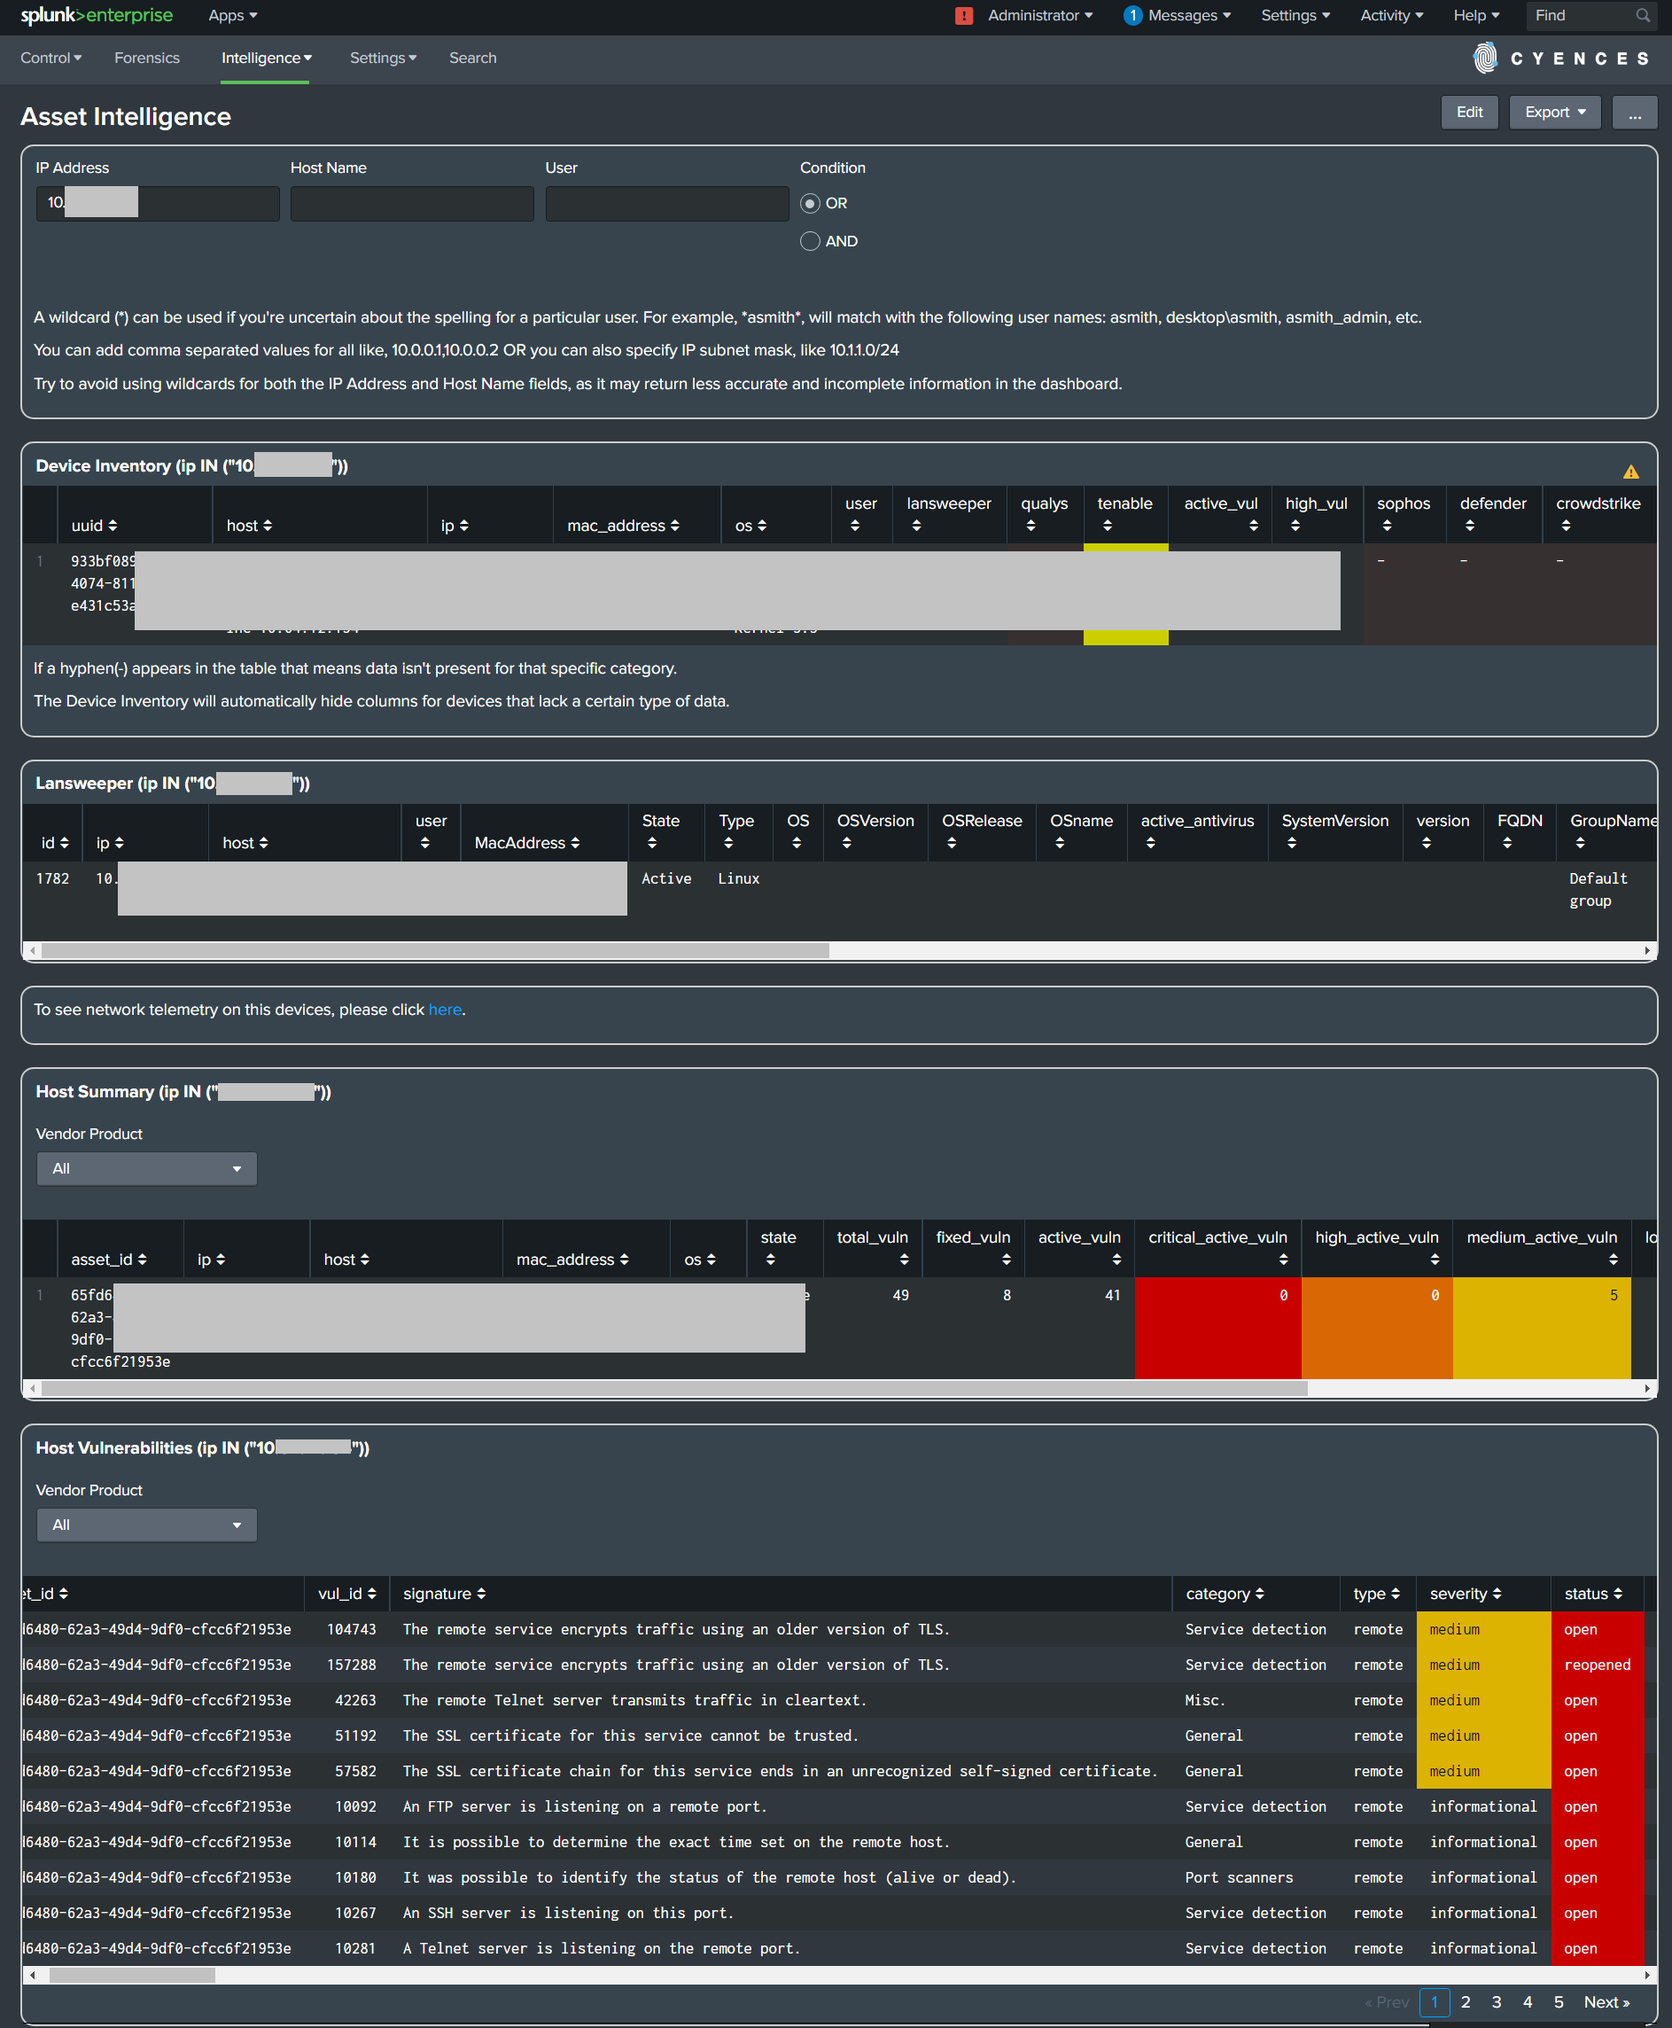
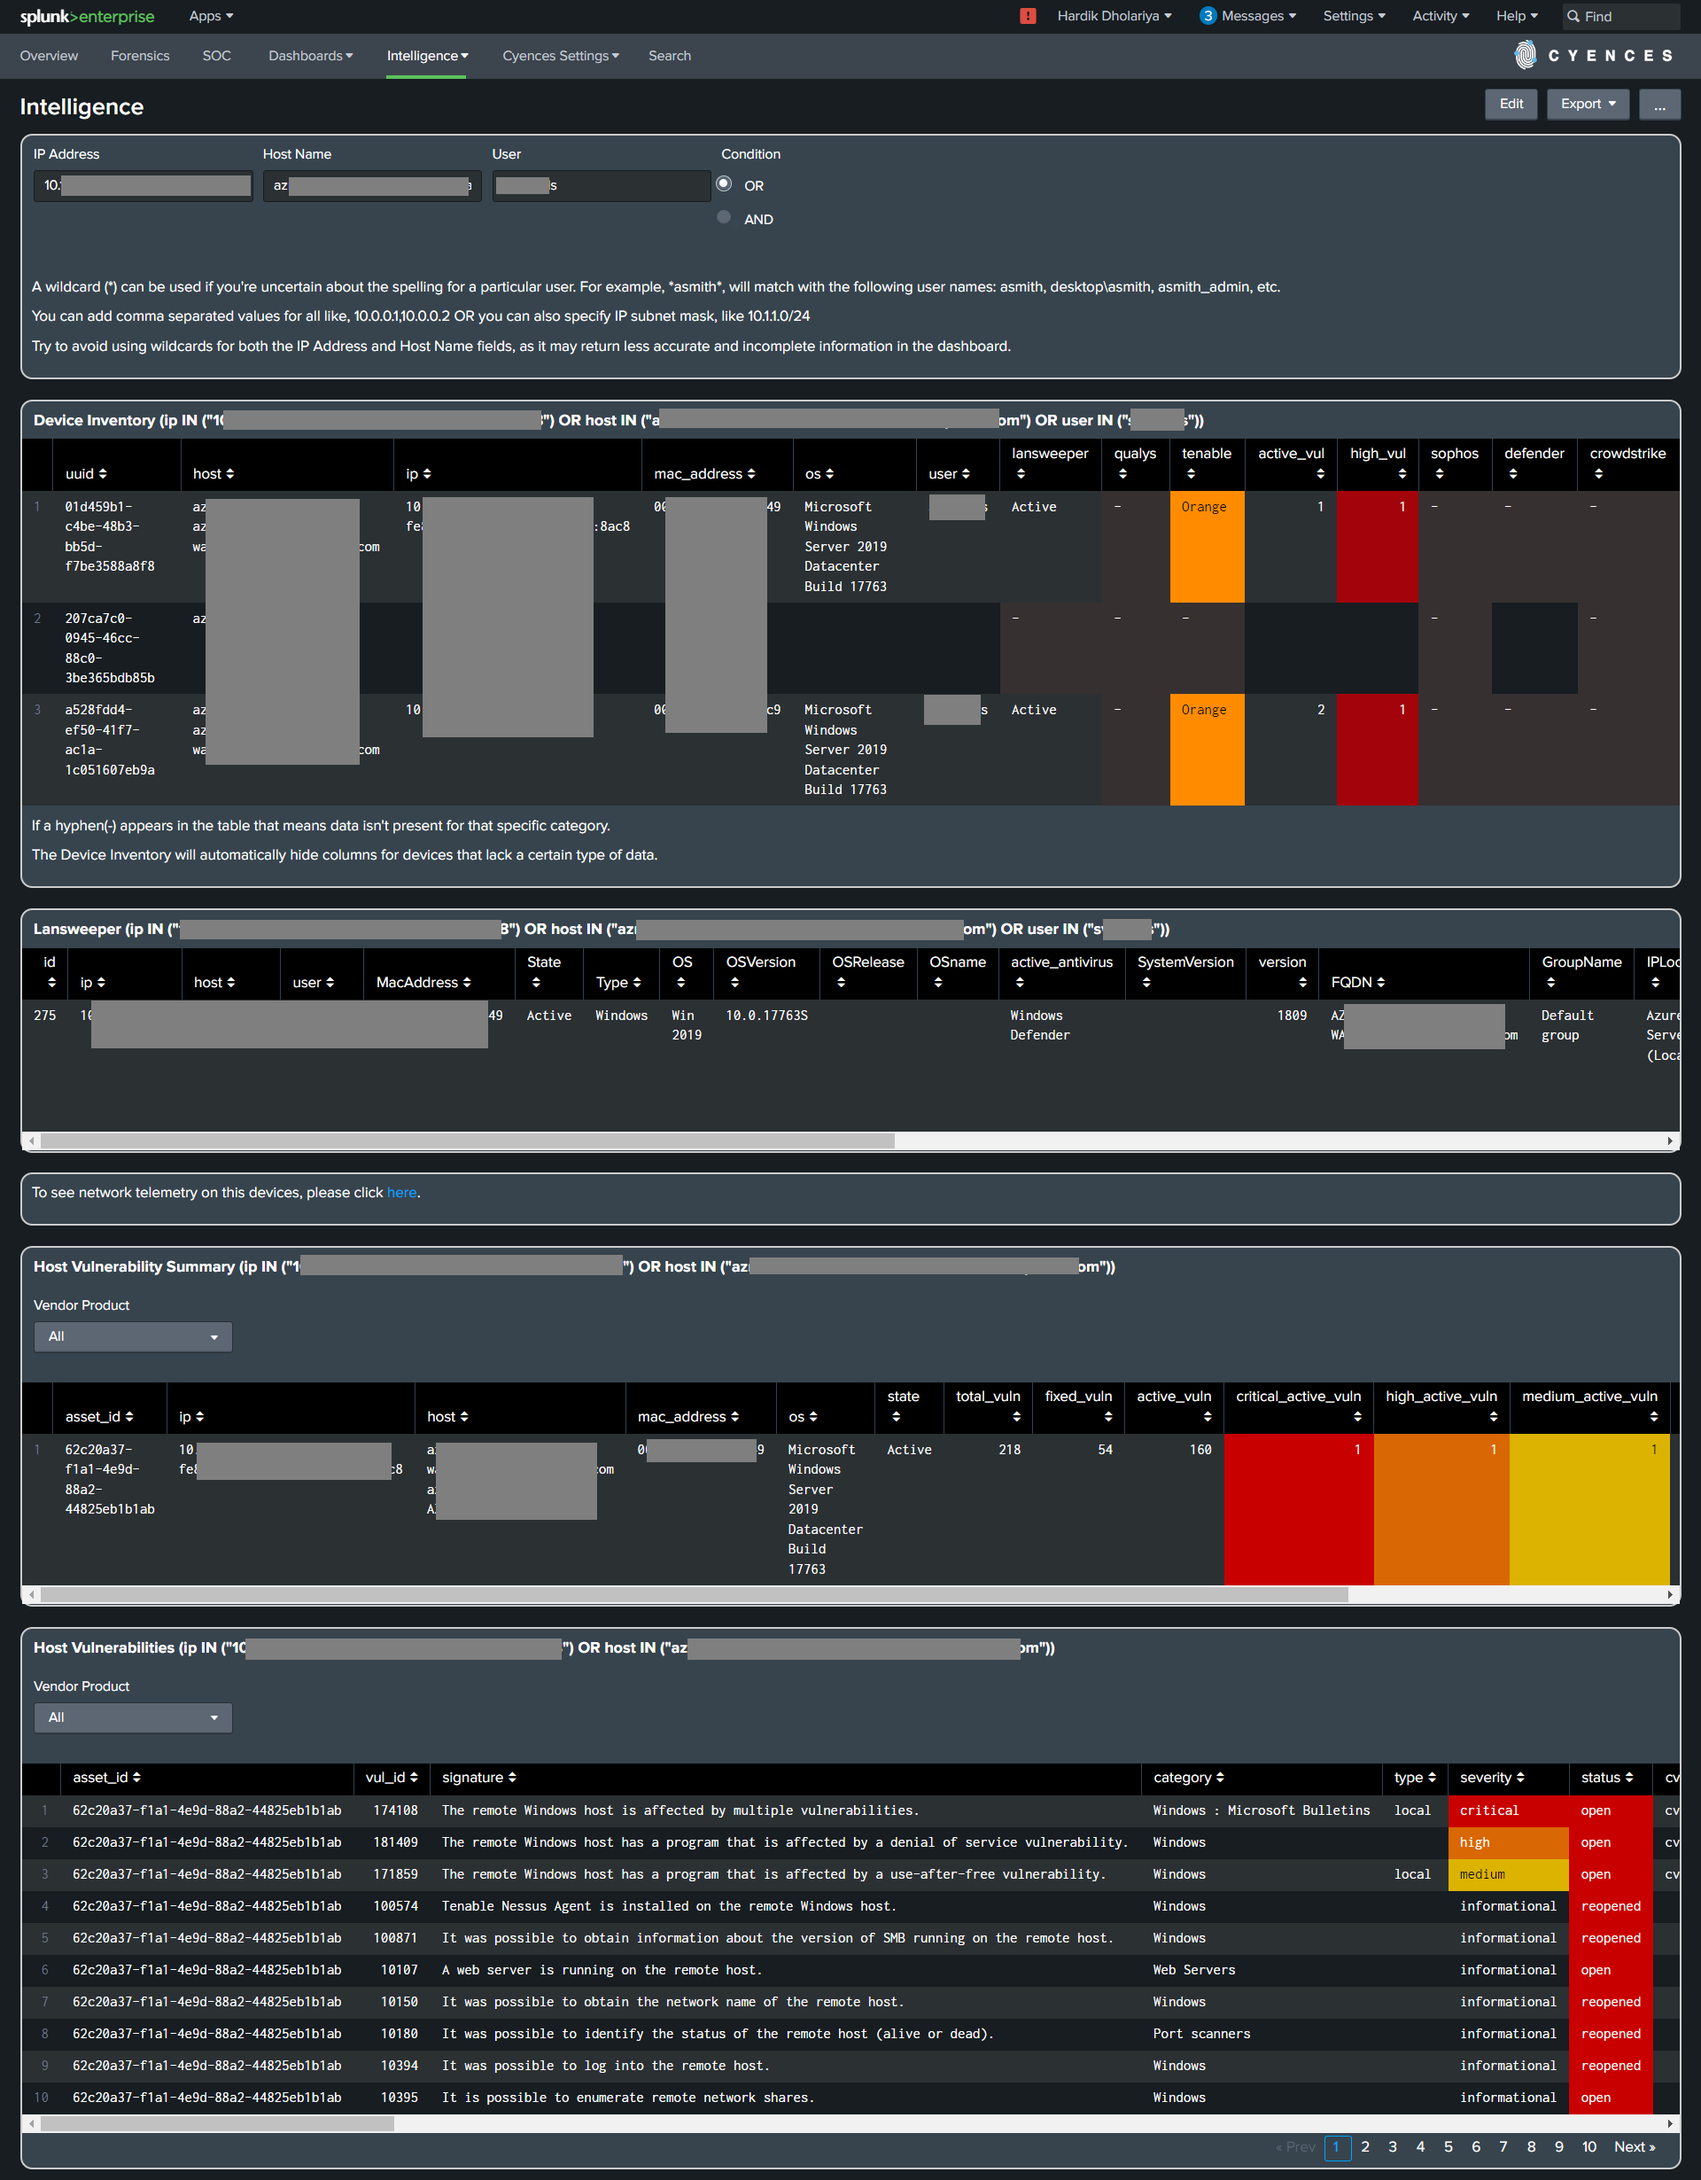
Updated release notes and SS

diff --git a/docs/release_notes/release_notes.md b/docs/release_notes/release_notes.md
@@ -30,17 +30,6 @@ has_children: true
             * Adding the functionality to auto merge devices.
             * Updating the functionality to manual merge devices.
         * The "Asset Intelligence" dashboard has been renamed to "Intelligence".
-        * Improved the searches for the following saved searches:
-            * Device Inventory - Lansweeper
-            * Device Inventory - Tenable
-            * Device Inventory - Tenable Vuln
-            * Device Inventory - Qualys
-            * Device Inventory - Sophos
-            * Device Inventory - Windows Defender
-            * Device Inventory - CrowdStrike
-            * Device Inventory - Kaspersky
-            * Device Inventory Backfill
-            * Device Inventory Lookup CleanUp
         * Added the "Device Inventory - Splunk Internal" saved search to collect the forwarder information available in splunk.
         * Added the "Device Inventory Merge Similar Devices" saved search to auto merge the similar devices.
 
